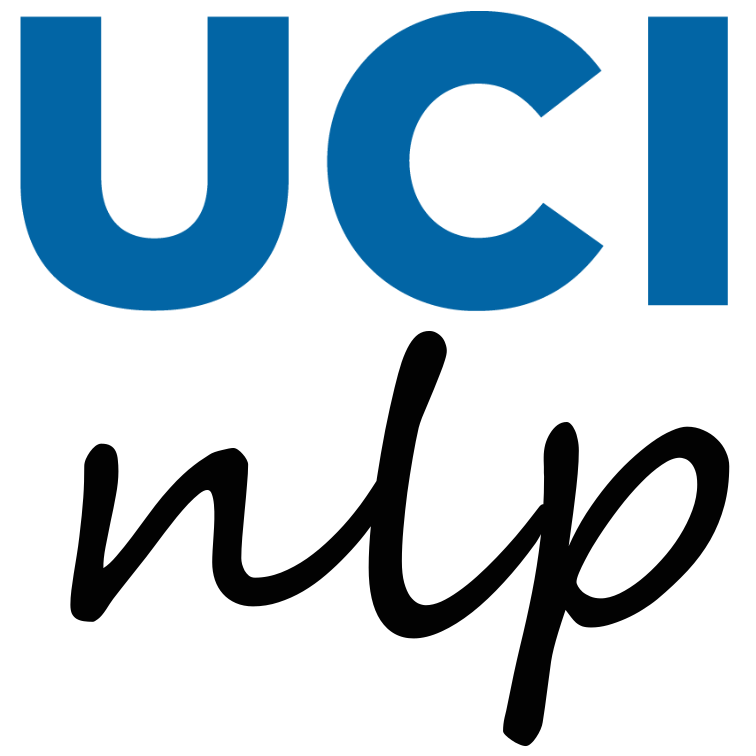
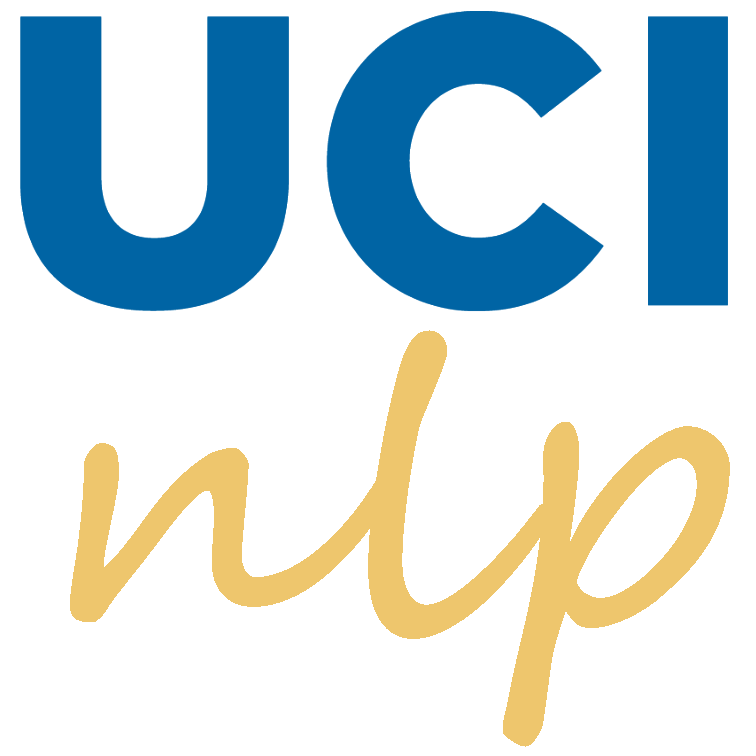
CSS hacks + further styling

Changed region(s): [[0.0913, 0.4259, 0.9735, 1.0]]

diff --git a/app/run.py b/app/run.py
@@ -22,6 +22,22 @@ import autoprompt.create_trigger as ct
 logger = logging.getLogger(__name__)
 
 
+def css_hack():
+    st.markdown(
+        """
+        <style>
+            code {
+                color: #eec66d;
+            }
+            .css-gtmd9c a {
+                color: #6f98af;
+            }
+        </style>
+        """,
+        unsafe_allow_html=True
+    )
+
+
 # Setting eq and frozen ensures that a __hash__ method is generated which is needed for caching to
 # properly respond to changed args.
 @dataclass(eq=True, frozen=True)
@@ -417,6 +433,7 @@ def csv_dataset():
 
 
 def run():
+    css_hack()
     st.title('AutoPrompt Demo')
     st.write("Give some examples, get a model!")
     st.markdown("See https://ucinlp.github.io/autoprompt/ for more details.")
@@ -438,7 +455,7 @@ def run():
         st.write("### Let's test it ourselves!")
         sentence = st.text_input("Sentence", dataset.dev[1]['sentence'])
         pred_output = predict_test([sentence], label_map ,templatizer, best_trigger_ids, tokenizer, predictor, args)
-        st.dataframe(pd.DataFrame(pred_output).style.highlight_min(axis=1))
+        st.dataframe(pd.DataFrame(pred_output).style.highlight_min(axis=1, color='#94666b'))
 
 
 if __name__ == '__main__':
